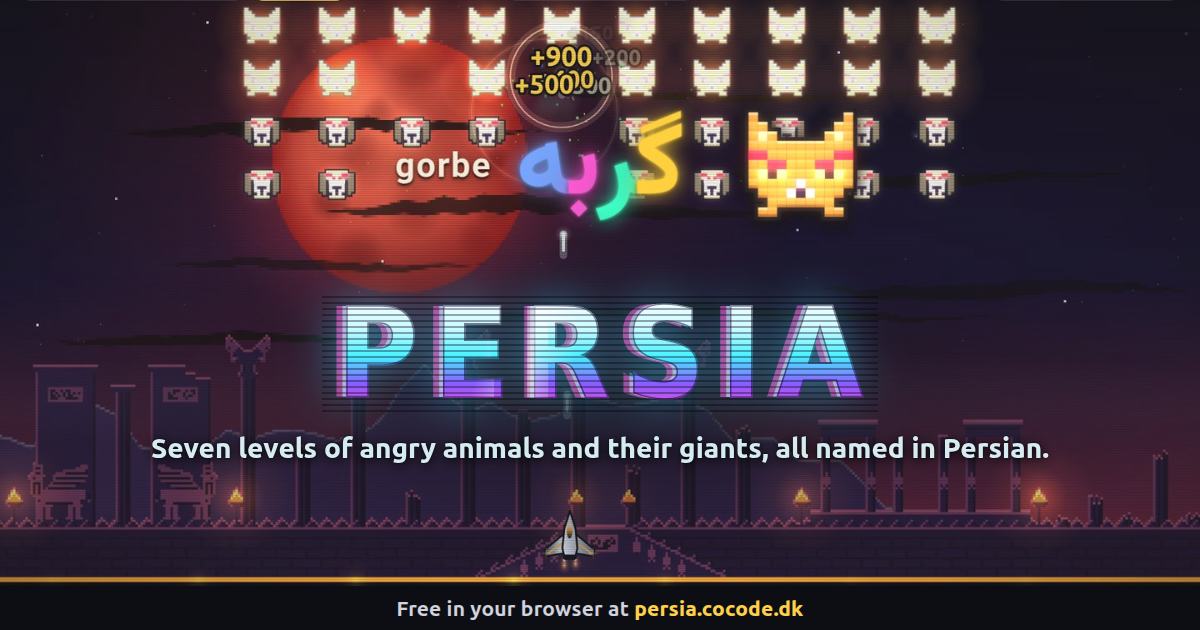
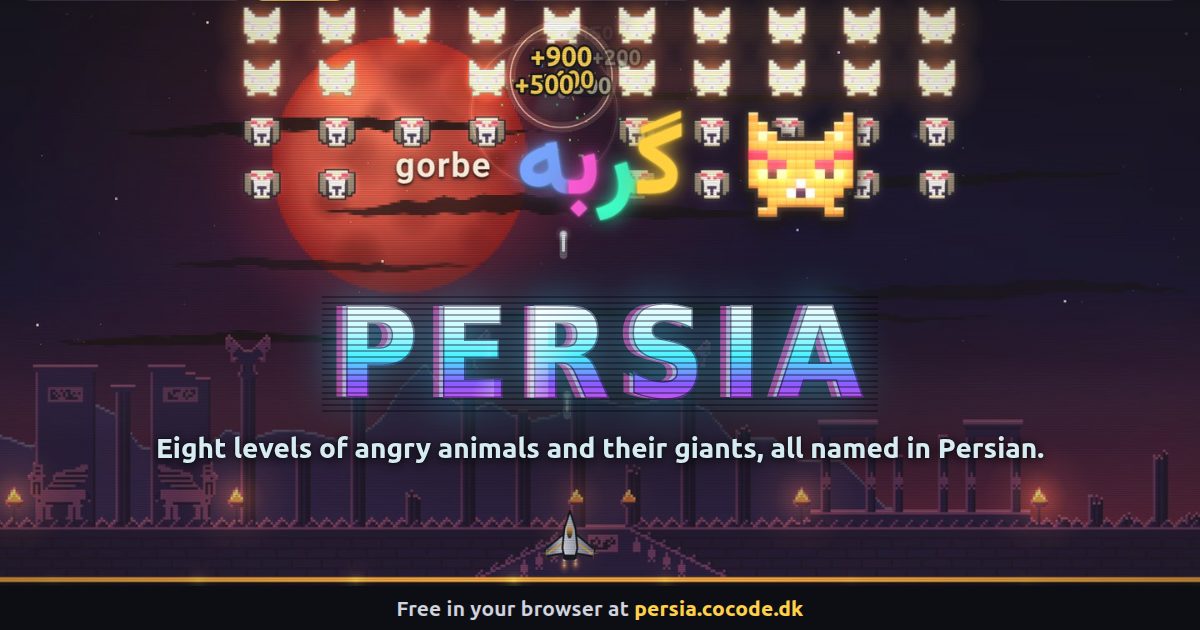
docs: the README, llms.txt, page and social card name eight levels
Level 8 on Naqsh-e Jahan Square, the lion, dawn and its word aseman, the
Persian bombs label, how to bomb (key caps, and a tap on a touch screen), and
fifty-four clips. og.png re-rendered headed.

Changed region(s): [[0.1233, 0.6937, 0.8942, 0.754]]

diff --git a/index.html b/index.html
@@ -9,21 +9,21 @@
   <meta charset="utf-8">
   <meta name="viewport" content="width=device-width, initial-scale=1">
   <title>Persia: an arcade shooter</title>
-  <meta name="description" content="Free arcade shooter in your browser. Seven levels of angry animals, each named in Persian as it arrives, and a giant at the end of each.">
+  <meta name="description" content="Free arcade shooter in your browser. Eight levels of angry animals, each named in Persian as it arrives, and a giant at the end of each.">
   <meta name="robots" content="index, follow">
   <meta name="theme-color" content="#05060b">
   <meta name="color-scheme" content="dark">
   <meta property="og:type" content="website">
   <meta property="og:site_name" content="Persia">
   <meta property="og:title" content="Persia: an arcade shooter">
-  <meta property="og:description" content="Shoot down waves of angry animals and seven giants: a cat, a mouse, a fish, a bird, a cow, a dog and a horse. You hear each animal's name in Persian when it shows up. Free in your browser.">
+  <meta property="og:description" content="Shoot down waves of angry animals and eight giants: a cat, a mouse, a fish, a bird, a cow, a dog, a horse and a lion. You hear each animal's name in Persian when it shows up. Free in your browser.">
   <meta property="og:image:width" content="1200">
   <meta property="og:image:height" content="630">
   <meta property="og:image:alt" content="The PERSIA logo under a formation of angry pixel cats and dogs, a blood-red moon over the ruins of Persepolis, and a Persian word with each letter in its own colour">
   <meta property="og:locale" content="en_US">
   <meta name="twitter:card" content="summary_large_image">
   <meta name="twitter:title" content="Persia: an arcade shooter">
-  <meta name="twitter:description" content="Shoot down waves of angry animals and seven giants: a cat, a mouse, a fish, a bird, a cow, a dog and a horse. You hear each animal's name in Persian when it shows up. Free in your browser.">
+  <meta name="twitter:description" content="Shoot down waves of angry animals and eight giants: a cat, a mouse, a fish, a bird, a cow, a dog, a horse and a lion. You hear each animal's name in Persian when it shows up. Free in your browser.">
   <meta name="twitter:image:alt" content="The PERSIA logo under a formation of angry pixel cats and dogs, a blood-red moon over the ruins of Persepolis, and a Persian word with each letter in its own colour">
   <link rel="canonical" href="https://persia.cocode.dk/">
   <meta property="og:url" content="https://persia.cocode.dk/">
@@ -34,7 +34,7 @@
     "@context": "https://schema.org",
     "@type": "VideoGame",
     "name": "Persia",
-    "description": "Free arcade shooter in your browser. Seven levels of angry animals, each named in Persian as it arrives, and a giant at the end of each.",
+    "description": "Free arcade shooter in your browser. Eight levels of angry animals, each named in Persian as it arrives, and a giant at the end of each.",
     "url": "https://persia.cocode.dk/",
     "image": "https://persia.cocode.dk/og.png",
     "genre": ["Shooter", "Arcade"],

diff --git a/og.html b/og.html
@@ -50,7 +50,7 @@
     <h1 class="logo">
       <span class="logo-glow">PERSIA</span><span class="logo-chroma c1">PERSIA</span><span class="logo-chroma c2">PERSIA</span><span class="logo-text">PERSIA</span><span class="logo-shine">PERSIA</span>
     </h1>
-    <p class="tagline">Seven levels of angry animals and their giants, all named in Persian.</p>
+    <p class="tagline">Eight levels of angry animals and their giants, all named in Persian.</p>
   </div>
   <div class="bar"><p class="play">Free in your browser at <b>persia.cocode.dk</b></p></div>
 </body>

diff --git a/README.md b/README.md
@@ -6,21 +6,21 @@ Persia is an arcade shooter for a laptop, played with keyboard and mouse in your
 
 ## What it is
 
-You fly a ship along the bottom of the screen and shoot angry pixel animals. There are seven levels of five waves each, and a wave is a group of enemies that flies in together. Level 1 plays over the ruins of Persepolis. There you meet a dog, a cow, a rabbit, a bird, a cat, a horse and a fish, and after wave 5 a giant cat arrives as the boss. Level 2 plays at night over Si-o-se-pol, the bridge of thirty-three arches in Isfahan. Its waves count on from 6 to 10, a mouse joins the animals, and the boss is a giant mouse. Level 3 plays at the Tomb of Hafez in Shiraz, among cypresses and orange trees. Its waves count on from 11 to 15, all eight animals fly, and the boss is a giant fish. Level 4 plays at the Azadi Tower in Tehran. Its waves count on from 16 to 20, birds fill the sky, rain starts falling at wave 18, and the boss is a giant bird. Level 5 plays at the Tomb of Cyrus at Pasargadae, at night. Its waves count on from 21 to 25, cows fill more rows, stars start falling at wave 23, and the boss is a giant cow. Level 6 plays among the windcatchers of Yazd at night. Its waves count on from 26 to 30, dogs fill more rows than in any level before, flower petals start falling at wave 28, and the boss is a giant dog. Level 7 plays under the Milad Tower in Tehran at night. Its waves count on from 31 to 35, horses fill more rows than in any level before, the blood moon turns white at wave 33, and the boss is a giant horse. All seven levels are open from the start. The title screen shows them as cards side by side, each with a small picture of its place and the place's name.
+You fly a ship along the bottom of the screen and shoot angry pixel animals. There are eight levels of five waves each, and a wave is a group of enemies that flies in together. Level 1 plays over the ruins of Persepolis. There you meet a dog, a cow, a rabbit, a bird, a cat, a horse and a fish, and after wave 5 a giant cat arrives as the boss. Level 2 plays at night over Si-o-se-pol, the bridge of thirty-three arches in Isfahan. Its waves count on from 6 to 10, a mouse joins the animals, and the boss is a giant mouse. Level 3 plays at the Tomb of Hafez in Shiraz, among cypresses and orange trees. Its waves count on from 11 to 15, all eight animals fly, and the boss is a giant fish. Level 4 plays at the Azadi Tower in Tehran. Its waves count on from 16 to 20, birds fill the sky, rain starts falling at wave 18, and the boss is a giant bird. Level 5 plays at the Tomb of Cyrus at Pasargadae, at night. Its waves count on from 21 to 25, cows fill more rows, stars start falling at wave 23, and the boss is a giant cow. Level 6 plays among the windcatchers of Yazd at night. Its waves count on from 26 to 30, dogs fill more rows than in any level before, flower petals start falling at wave 28, and the boss is a giant dog. Level 7 plays under the Milad Tower in Tehran at night. Its waves count on from 31 to 35, horses fill more rows than in any level before, the blood moon turns white at wave 33, and the boss is a giant horse. Level 8 plays on Naqsh-e Jahan Square in Isfahan at night. Its waves count on from 36 to 40, a lion joins the animals and dives at your ship, dawn starts to colour the sky at wave 38, and the boss is a giant lion. All eight levels are open from the start. The title screen shows them as cards side by side, each with a small picture of its place and the place's name.
 
-You have three lives. Lose all three and the level starts again from its first wave. Beat the boss and that level's animals parade past, each named once. Then you see your score, with Next (after levels 1 to 6), Again and Title.
+You have three lives. Lose all three and the level starts again from its first wave. Beat the boss and that level's animals parade past, each named once. Then you see your score, with Next (after levels 1 to 7), Again and Title.
 
 The first time you start a level after the page loads, a short film-style opening runs. Press any key after the first second to skip it. Reloading the page brings it back.
 
-A voice speaks Persian as things happen. It says each wave's number as the wave starts and each animal's name the first time that animal appears in a wave. In a boss fight it names every animal the giant sends out, every time one comes. In level 4 it also says باران (baran, rain) when the rain starts, in level 5 ستاره (setare, star) when the stars start, in level 6 گل (gol, flower) when the petals start, and in level 7 ماه (mah, moon) when the moon turns white. Whatever it says also shows on screen for about a second:
+A voice speaks Persian as things happen. It says each wave's number as the wave starts and each animal's name the first time that animal appears in a wave. In a boss fight it names every animal the giant sends out, every time one comes. In level 4 it also says باران (baran, rain) when the rain starts, in level 5 ستاره (setare, star) when the stars start, in level 6 گل (gol, flower) when the petals start, in level 7 ماه (mah, moon) when the moon turns white, and in level 8 آسمان (aseman, sky) when dawn starts. Whatever it says also shows on screen for about a second:
 
 - the Persian word, each letter in its own colour (for a wave number, its Persian digits);
 - the same word in Latin letters beside it while it is said, so the cat shows گربه next to "gorbe";
 - for an animal, its face drawn big.
 
-There are no captions or translations. The menus are in English, and so is the score in levels 1 and 2. In levels 2 to 7 the wave count at the top of the screen is in Persian digits, in levels 3 to 7 so is the score, and in levels 4 to 7 the combo and the level's own number are too. In levels 5 to 7 the giant's name bar at the top reads its Persian name, گاو (gav) for the cow, سگ (sag) for the dog and اسب (asb) for the horse, instead of GIANT COW, GIANT DOG or GIANT HORSE. In levels 6 and 7 the wave line itself is Persian: it reads موج (mowj, wave) and the count, right to left. In level 7 the label over the score reads امتیاز (emtiyaz, score) instead of SCORE.
+There are no captions or translations. The menus are in English, and so is the score in levels 1 and 2. In levels 2 to 8 the wave count at the top of the screen is in Persian digits, in levels 3 to 8 so is the score, and in levels 4 to 8 the combo and the level's own number are too. In levels 5 to 8 the giant's name bar at the top reads its Persian name, گاو (gav) for the cow, سگ (sag) for the dog, اسب (asb) for the horse and شیر (shir) for the lion, instead of GIANT COW, GIANT DOG, GIANT HORSE or GIANT LION. In levels 6 to 8 the wave line itself is Persian: it reads موج (mowj, wave) and the count, right to left. In levels 7 and 8 the label over the score reads امتیاز (emtiyaz, score) instead of SCORE, and in level 8 the label over the bombs reads بمب (bomb) instead of BOMBS.
 
-Persia is forked from [Invaders](https://github.com/cocodedk/invaders), Babak Bandpey's own arcade shooter, and cut down to what these seven levels run.
+Persia is forked from [Invaders](https://github.com/cocodedk/invaders), Babak Bandpey's own arcade shooter, and cut down to what these eight levels run.
 
 ## How to play
 
@@ -35,7 +35,7 @@ Open [persia.cocode.dk](https://persia.cocode.dk) and pick Level 1, or press Ent
 | Sound on or off | M | |
 | Menus | Arrow keys to move, Enter or Space to choose | Click |
 
-Shoot a rabbit and it drops a power-up (spread shot, laser, rapid fire or shield) or a bomb. Fly into it to pick it up. A bomb removes every enemy bullet and hits everything on screen. You start with one and can hold three.
+Shoot a rabbit and it drops a power-up (spread shot, laser, rapid fire or shield) or a bomb. Fly into it to pick it up. A bomb removes every enemy bullet and hits everything on screen. You start with one and can hold three. The bombs panel at the top right shows how to drop one, with key caps for B and the right mouse button. On a touch screen, tapping the bombs panel drops a bomb.
 
 The pause menu offers Resume, Restart and Title. Switching to another tab pauses the game too.
 
@@ -45,7 +45,7 @@ You need Python 3, or any other static file server.
 
 1. Open a terminal in the project folder (`git clone https://github.com/cocodedk/persia-game.git` if you don't have it yet).
 2. Run `python3 -m http.server 8000`. It prints that it is serving on port 8000.
-3. Open http://localhost:8000/ in your browser. You should see the PERSIA title screen with seven level cards, Level 1 to Level 7.
+3. Open http://localhost:8000/ in your browser. You should see the PERSIA title screen with eight level cards, Level 1 to Level 8.
 
 Browsers do not run module scripts from a `file://` address, so double-clicking `index.html` will not work. There are no dependencies, no build step and no network requests while you play.
 
@@ -65,7 +65,7 @@ The design spec and the build plan are in `docs/superpowers/`.
 
 ## Voice clips
 
-There are forty-seven clips, in `public/audio/`: the eight animal names, the numbers one to thirty-five, and the words for rain, star, flower and moon. They come from the [Danish-Persian-Lessons](https://github.com/cocodedk/Danish-Persian-Lessons) repository. Nothing is generated while you play. Each clip was made ahead of time with the Piper voice model `fa_IR-ganji-medium`, and a native Persian reviewer approved it before it was added. A new clip needs a new review.
+There are fifty-four clips, in `public/audio/`: the nine animal names, the numbers one to forty, and the words for rain, star, flower, moon and sky. They come from the [Danish-Persian-Lessons](https://github.com/cocodedk/Danish-Persian-Lessons) repository. Nothing is generated while you play. Each clip was made ahead of time with the Piper voice model `fa_IR-ganji-medium`, and a native Persian reviewer approved it before it was added. A new clip needs a new review.
 
 `public/audio/manifest.json` records, for every clip, the text it speaks, the voice model and its checksum, the engine version, the reviewer and the clip's own SHA-256 checksum. The script that copied the clips in, `scripts/lift-clips.mjs`, refuses any clip with no reviewer on record.
 

diff --git a/CLAUDE.md b/CLAUDE.md
@@ -3,7 +3,7 @@
 A 2D arcade shooter for a laptop, forked from invaders (`../invaders`), that plays Persian as the
 soundtrack of what happens on screen. It is a game first and never calls itself a lesson. The design
 is `docs/superpowers/specs/2026-10-24-persia-design.md` and the build plan goes in
-`docs/superpowers/plans/`; the spec is the authority. Scope now: world 1 (animals), seven levels so far;
+`docs/superpowers/plans/`; the spec is the authority. Scope now: world 1 (animals), eight levels so far;
 Babak plays each one before the next is planned. Deploys to `persia.cocode.dk`.
 
 Invaders is the reference architecture: copy and adapt from it, never import across repos. The lessons
